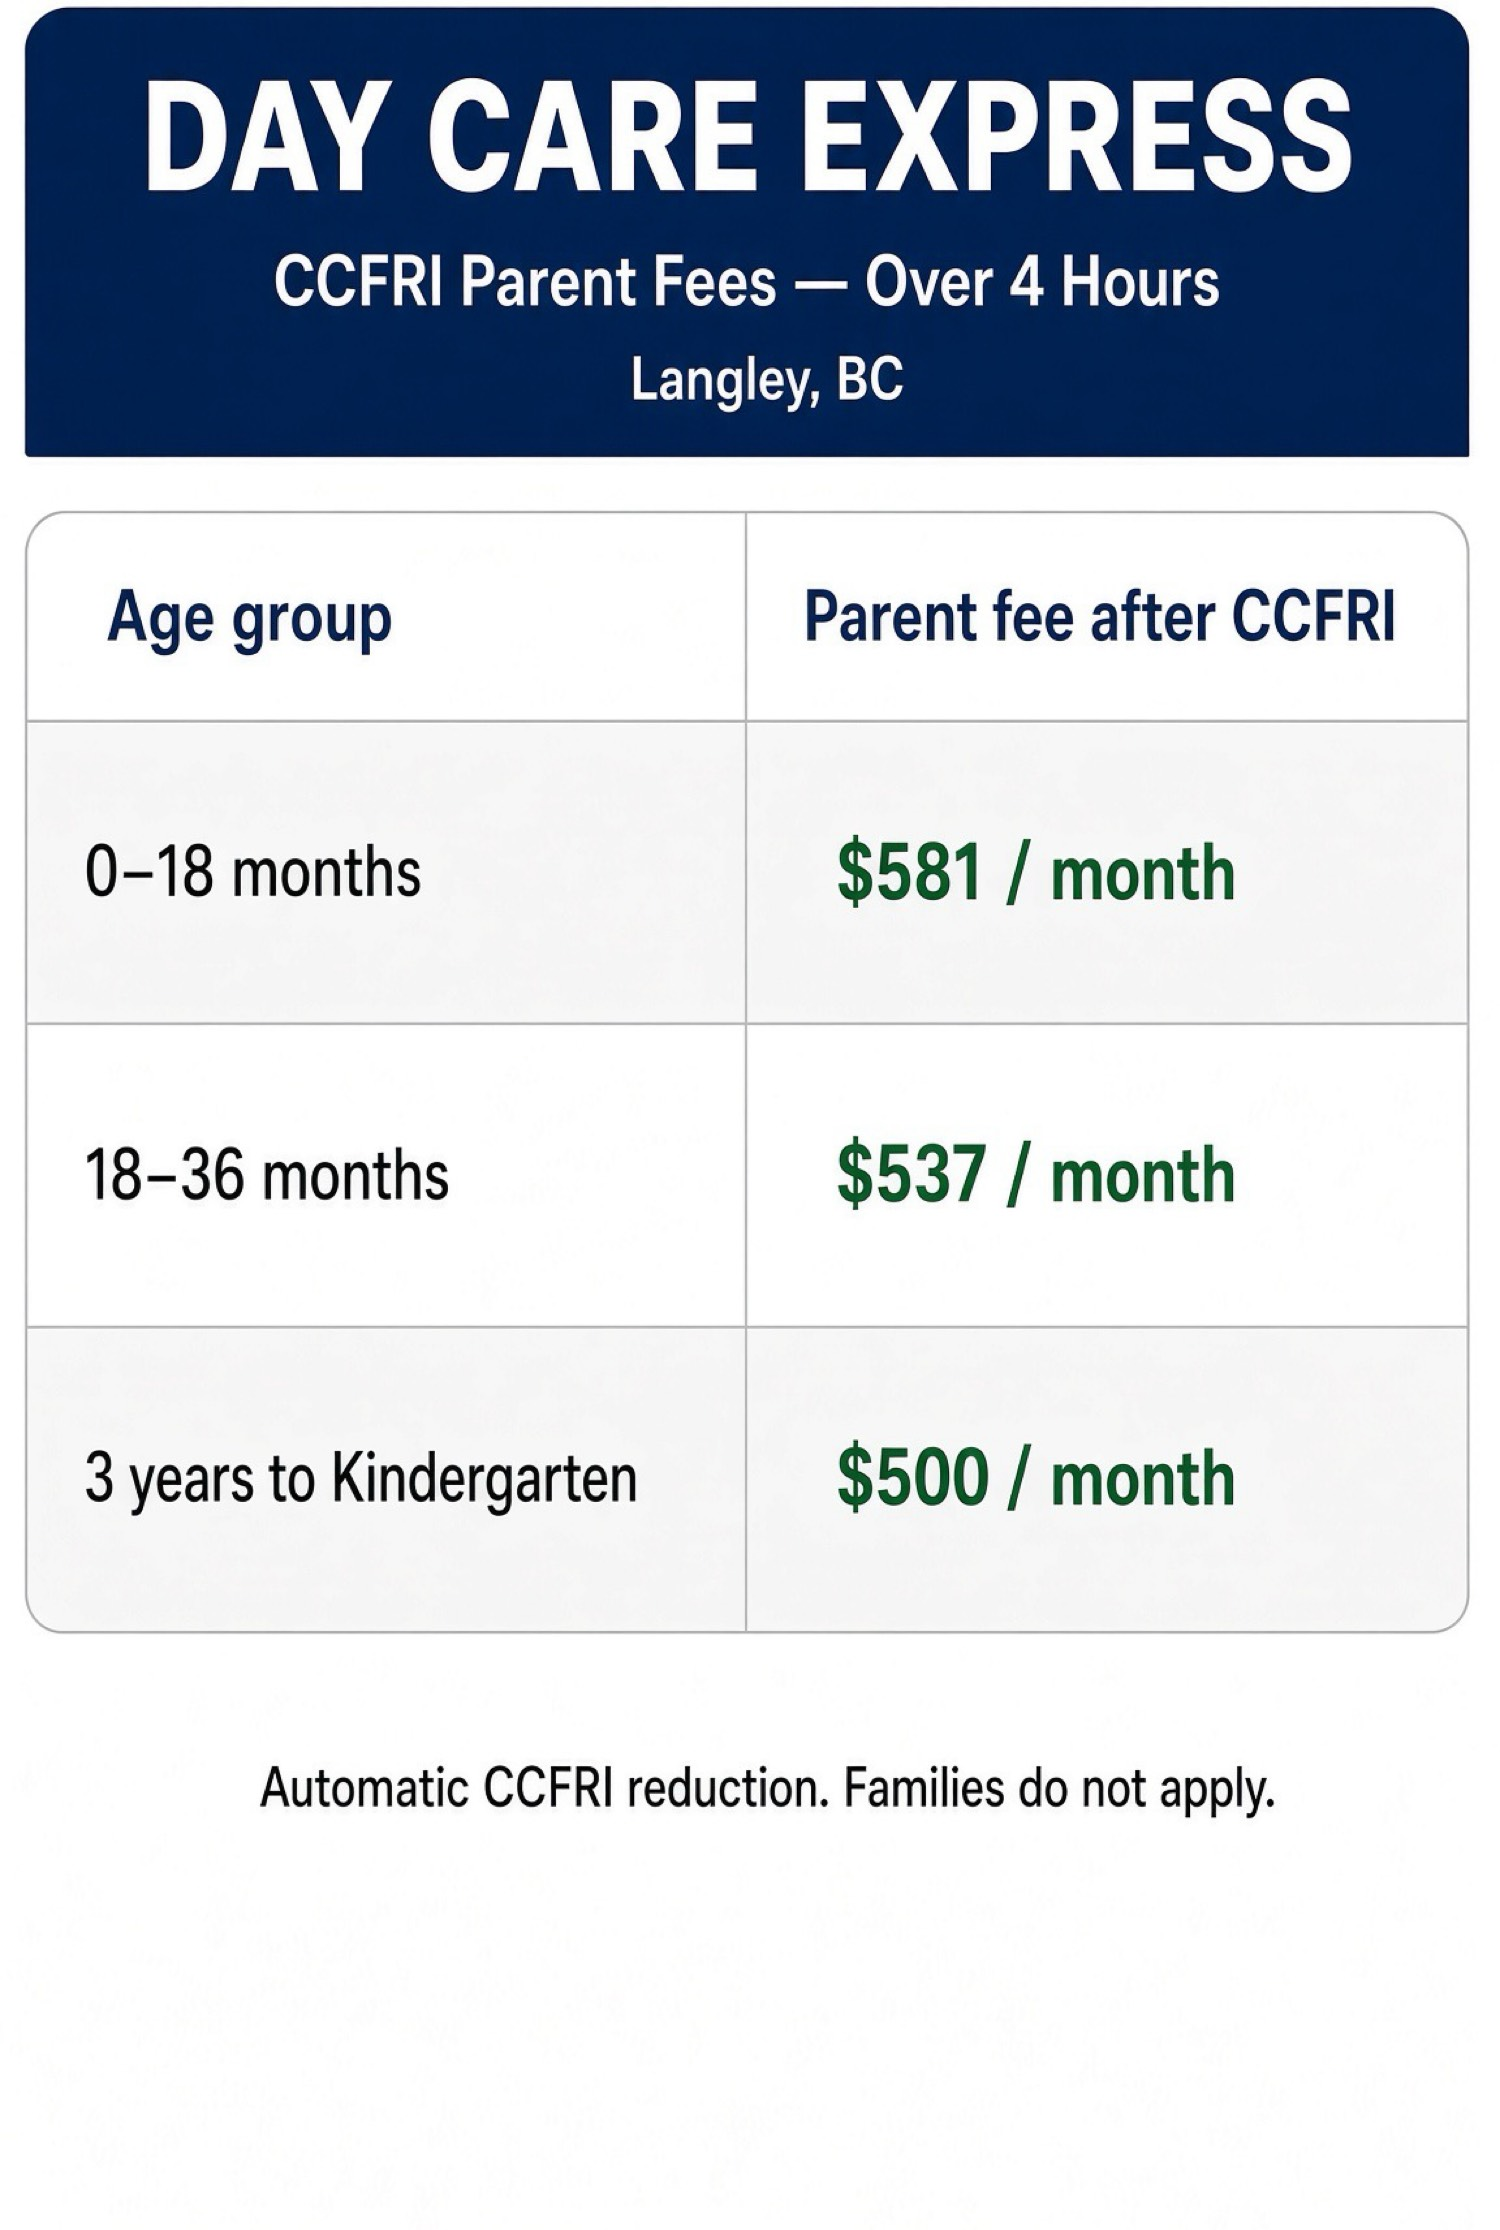
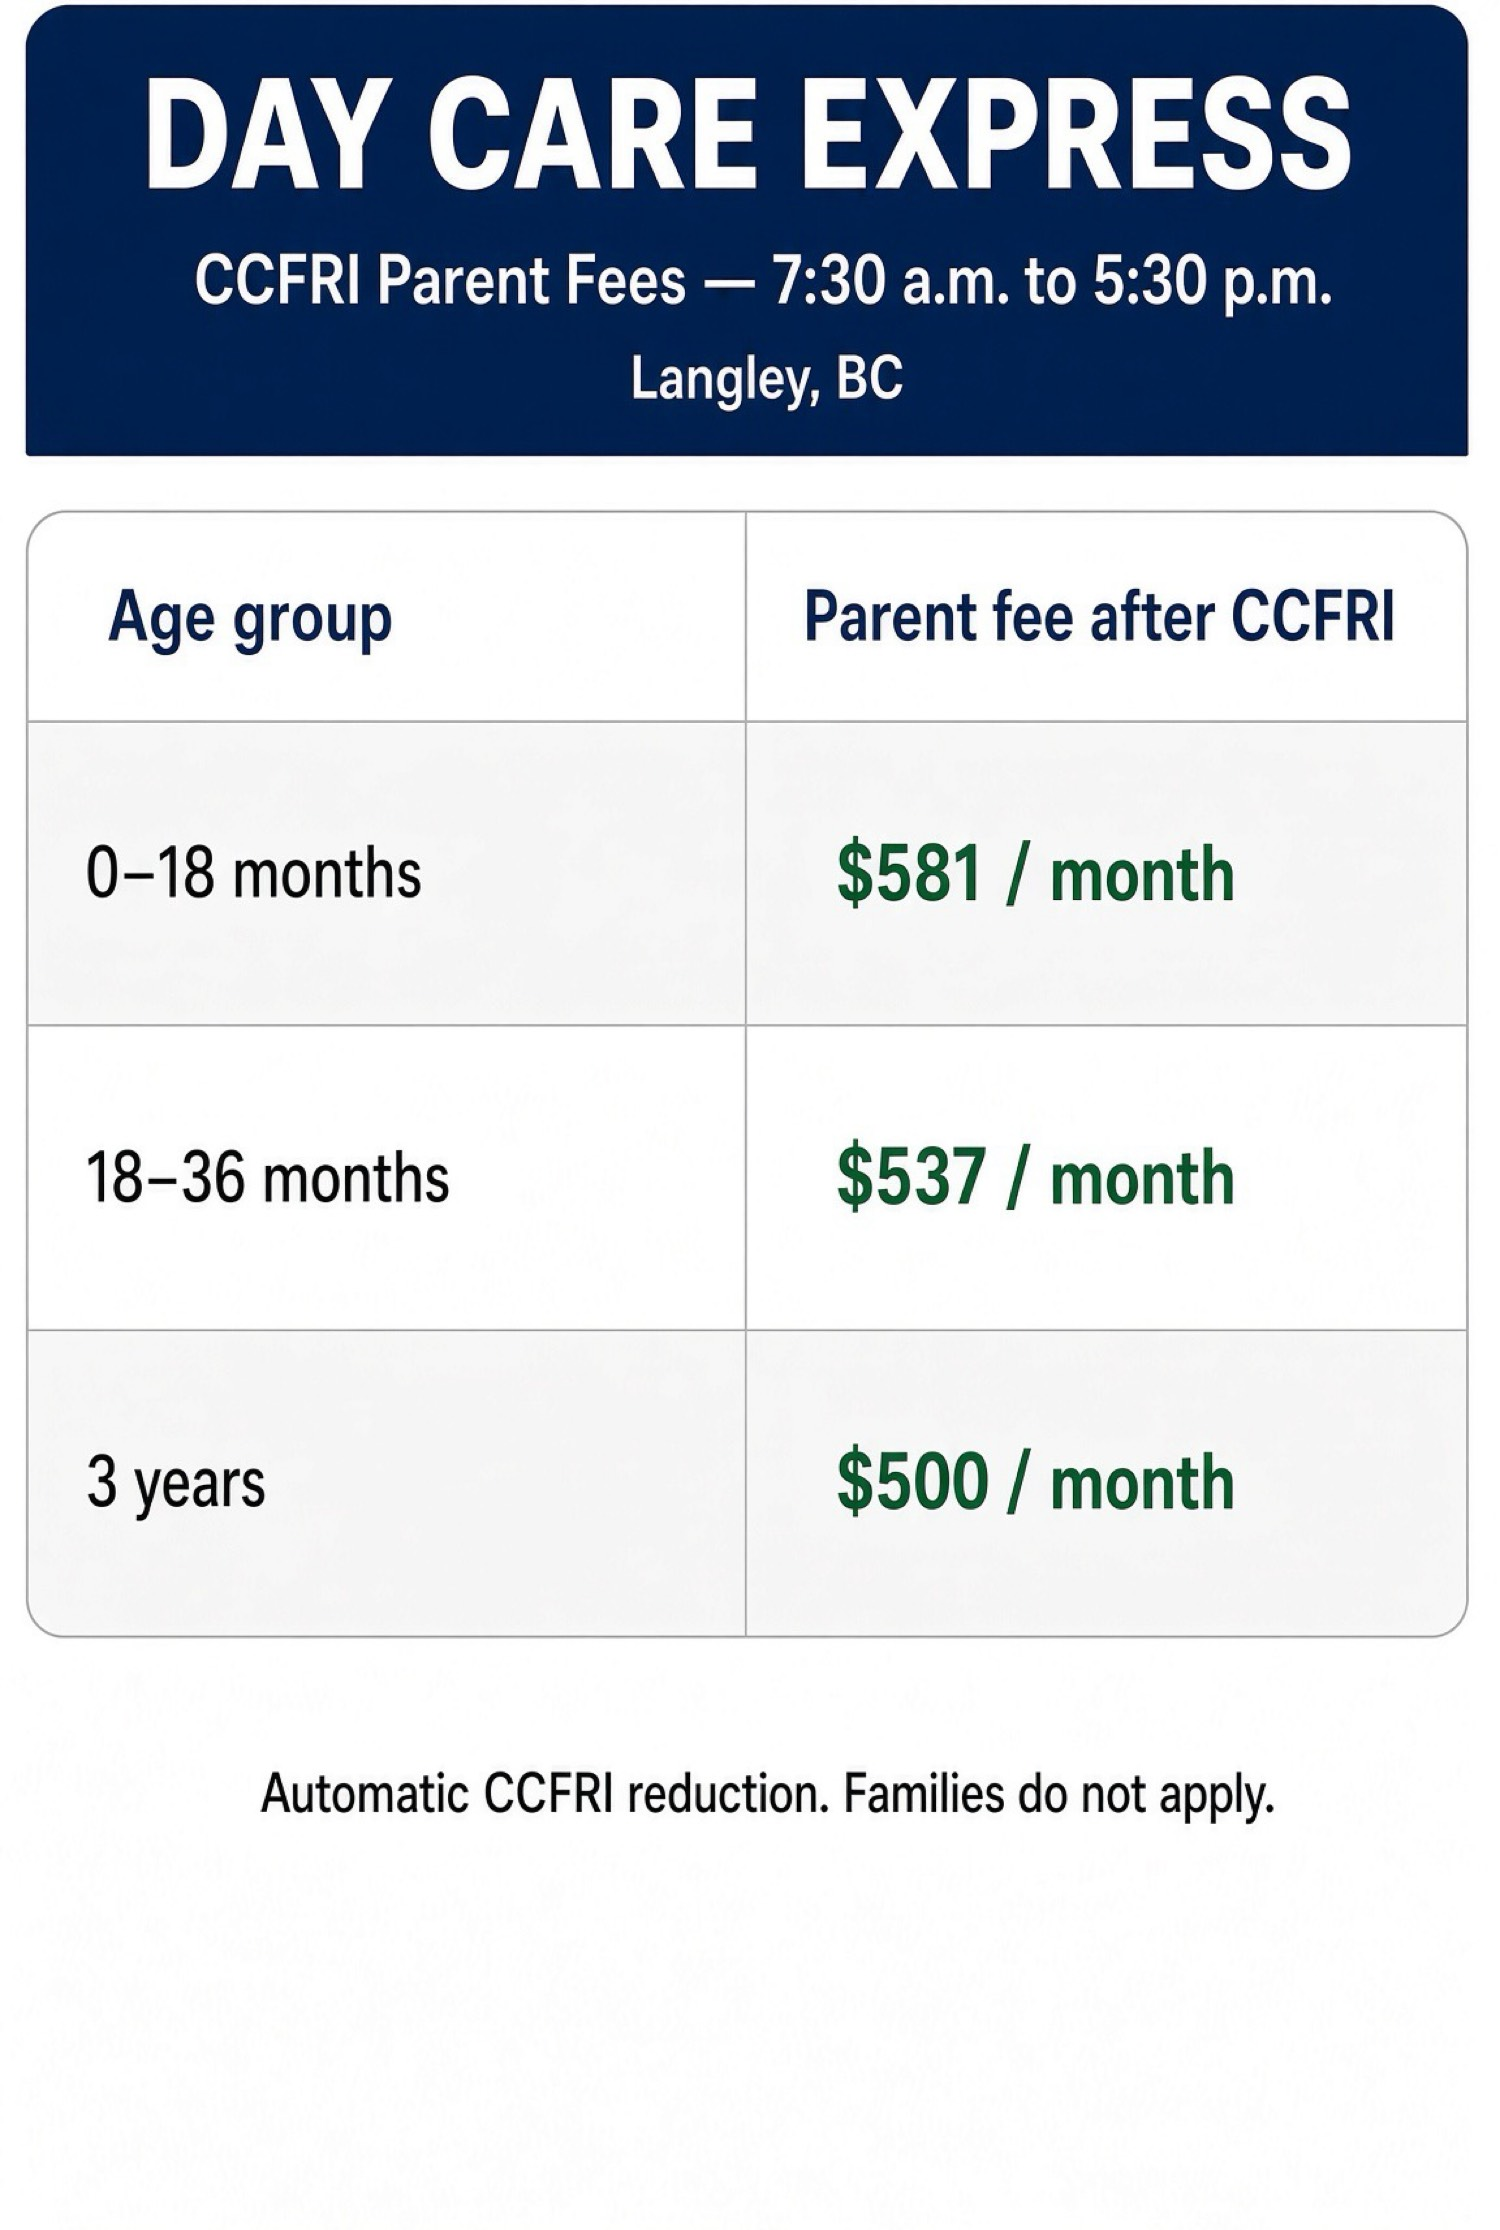
Replace CCFRI fees flyer photo

diff --git a/index.html b/index.html
@@ -380,7 +380,7 @@
         <p class="kicker">Parent fees</p>
         <h2>CCFRI parent fees</h2>
         <figure class="photo photo-lg">
-          <img src="flyer-fees.jpg" width="1500" height="2230" alt="Day Care Express CCFRI parent fees: $581, $537, and $500 a month by age group. Automatic CCFRI reduction. Families do not apply." />
+          <img src="flyer-fees.jpg" width="1500" height="2230" alt="Day Care Express CCFRI parent fees, 7:30 a.m. to 5:30 p.m. in Langley, BC: $581, $537, and $500 a month by age group. Automatic CCFRI reduction. Families do not apply." />
         </figure>
       </section>
 
